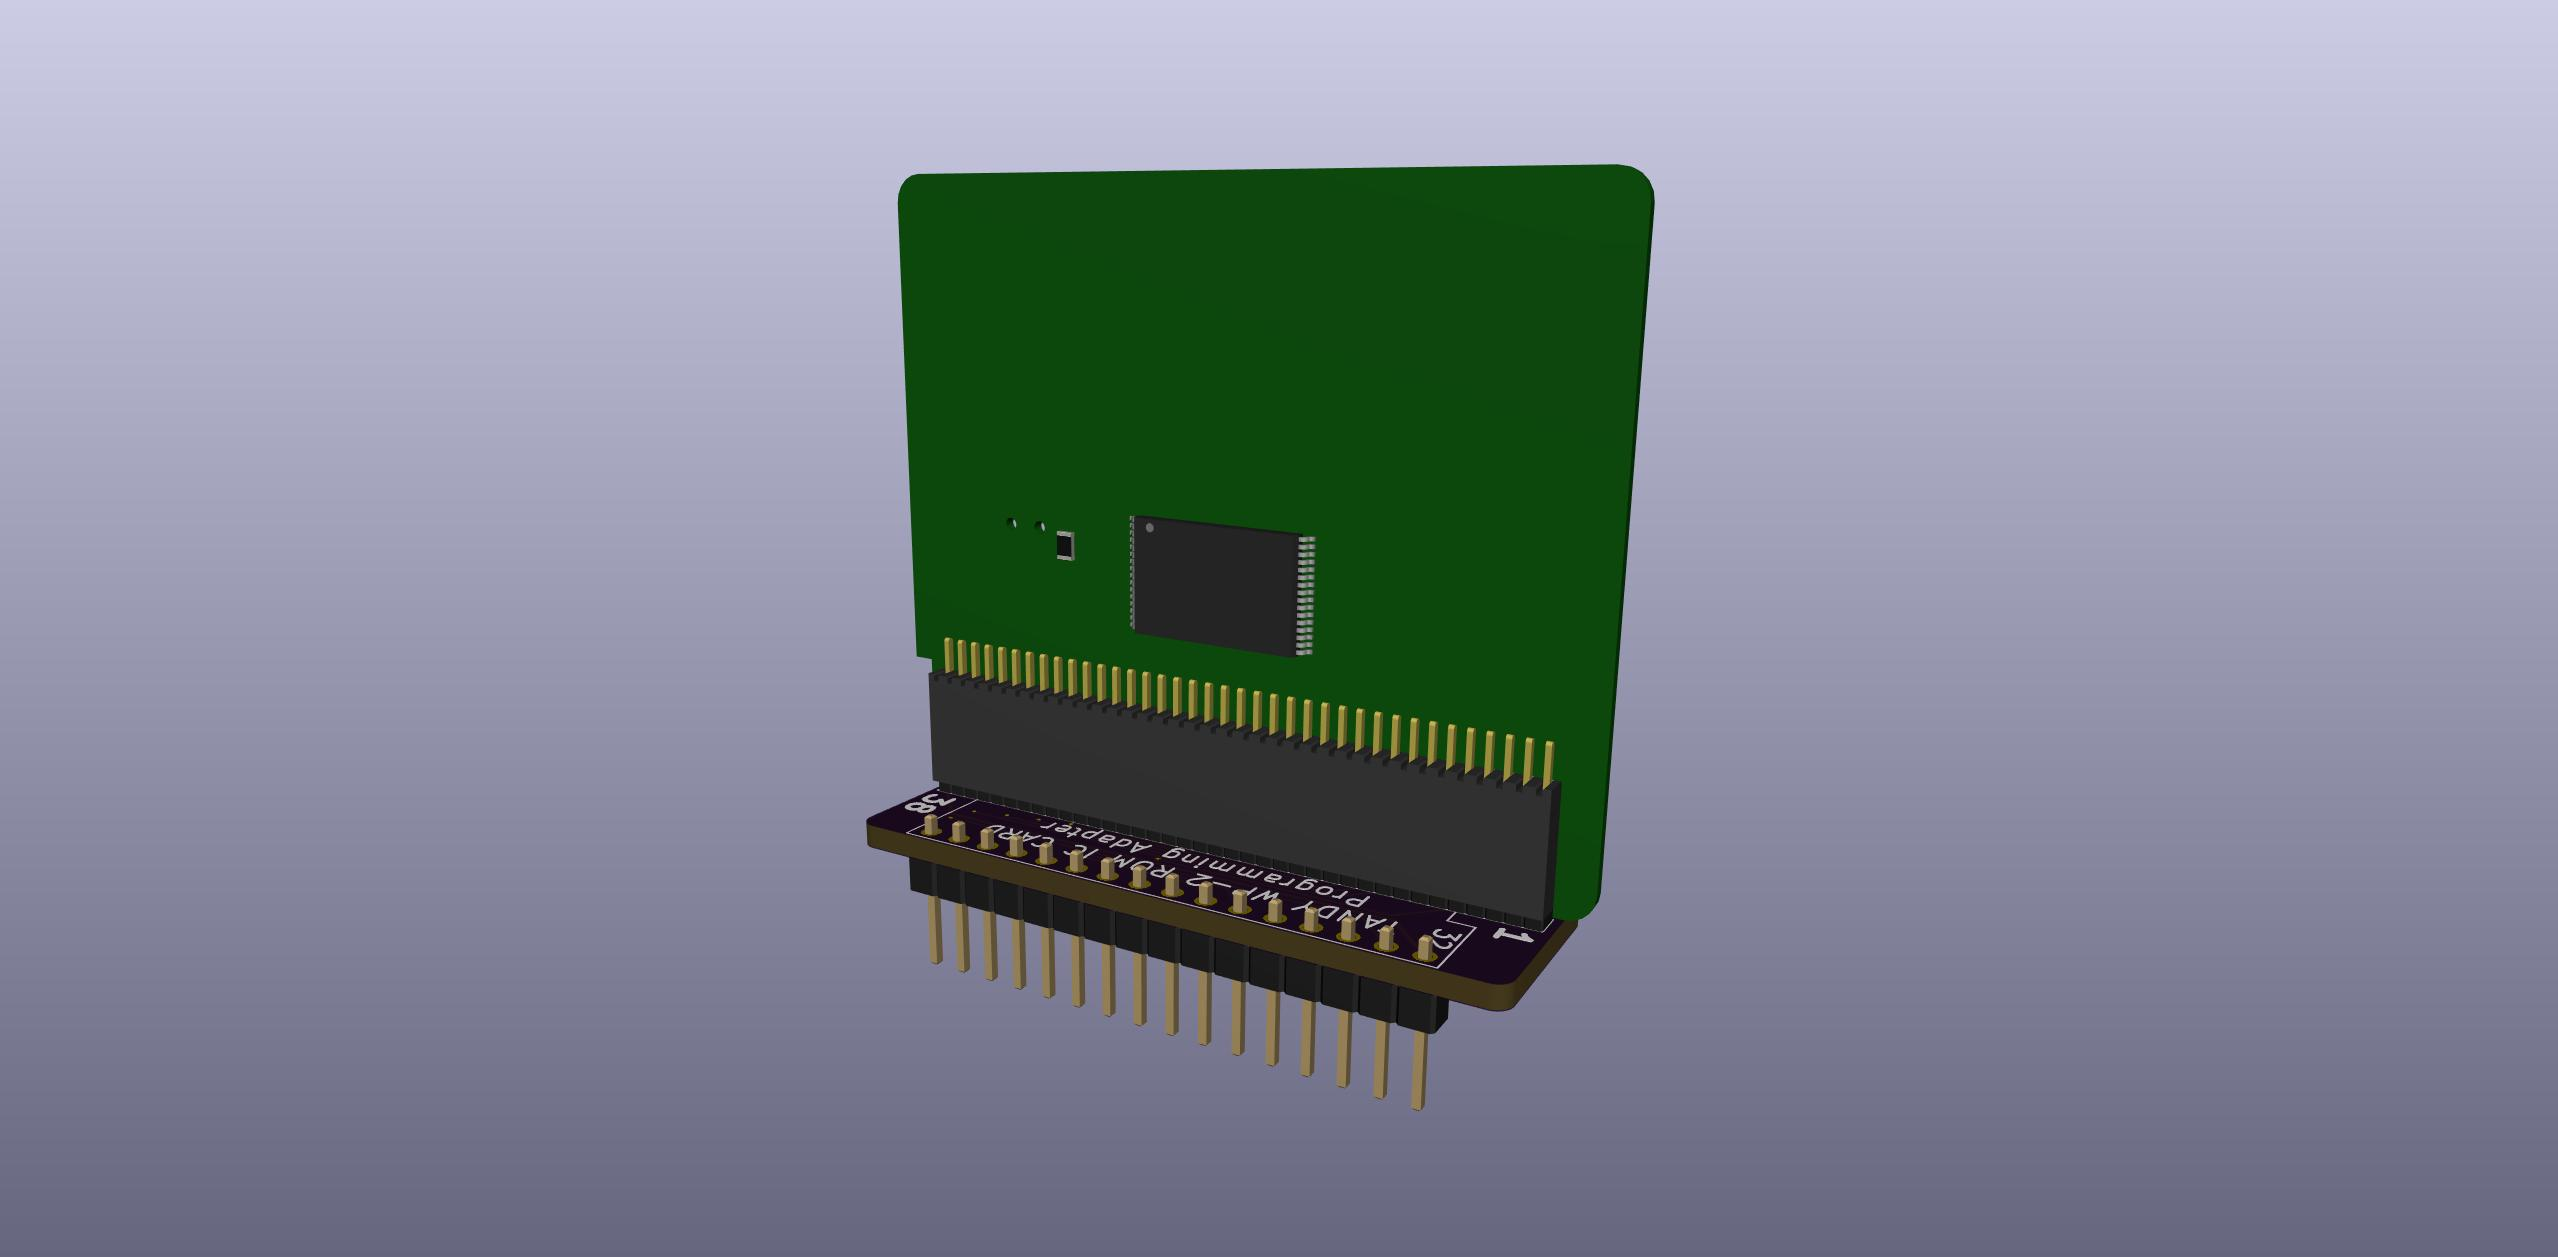
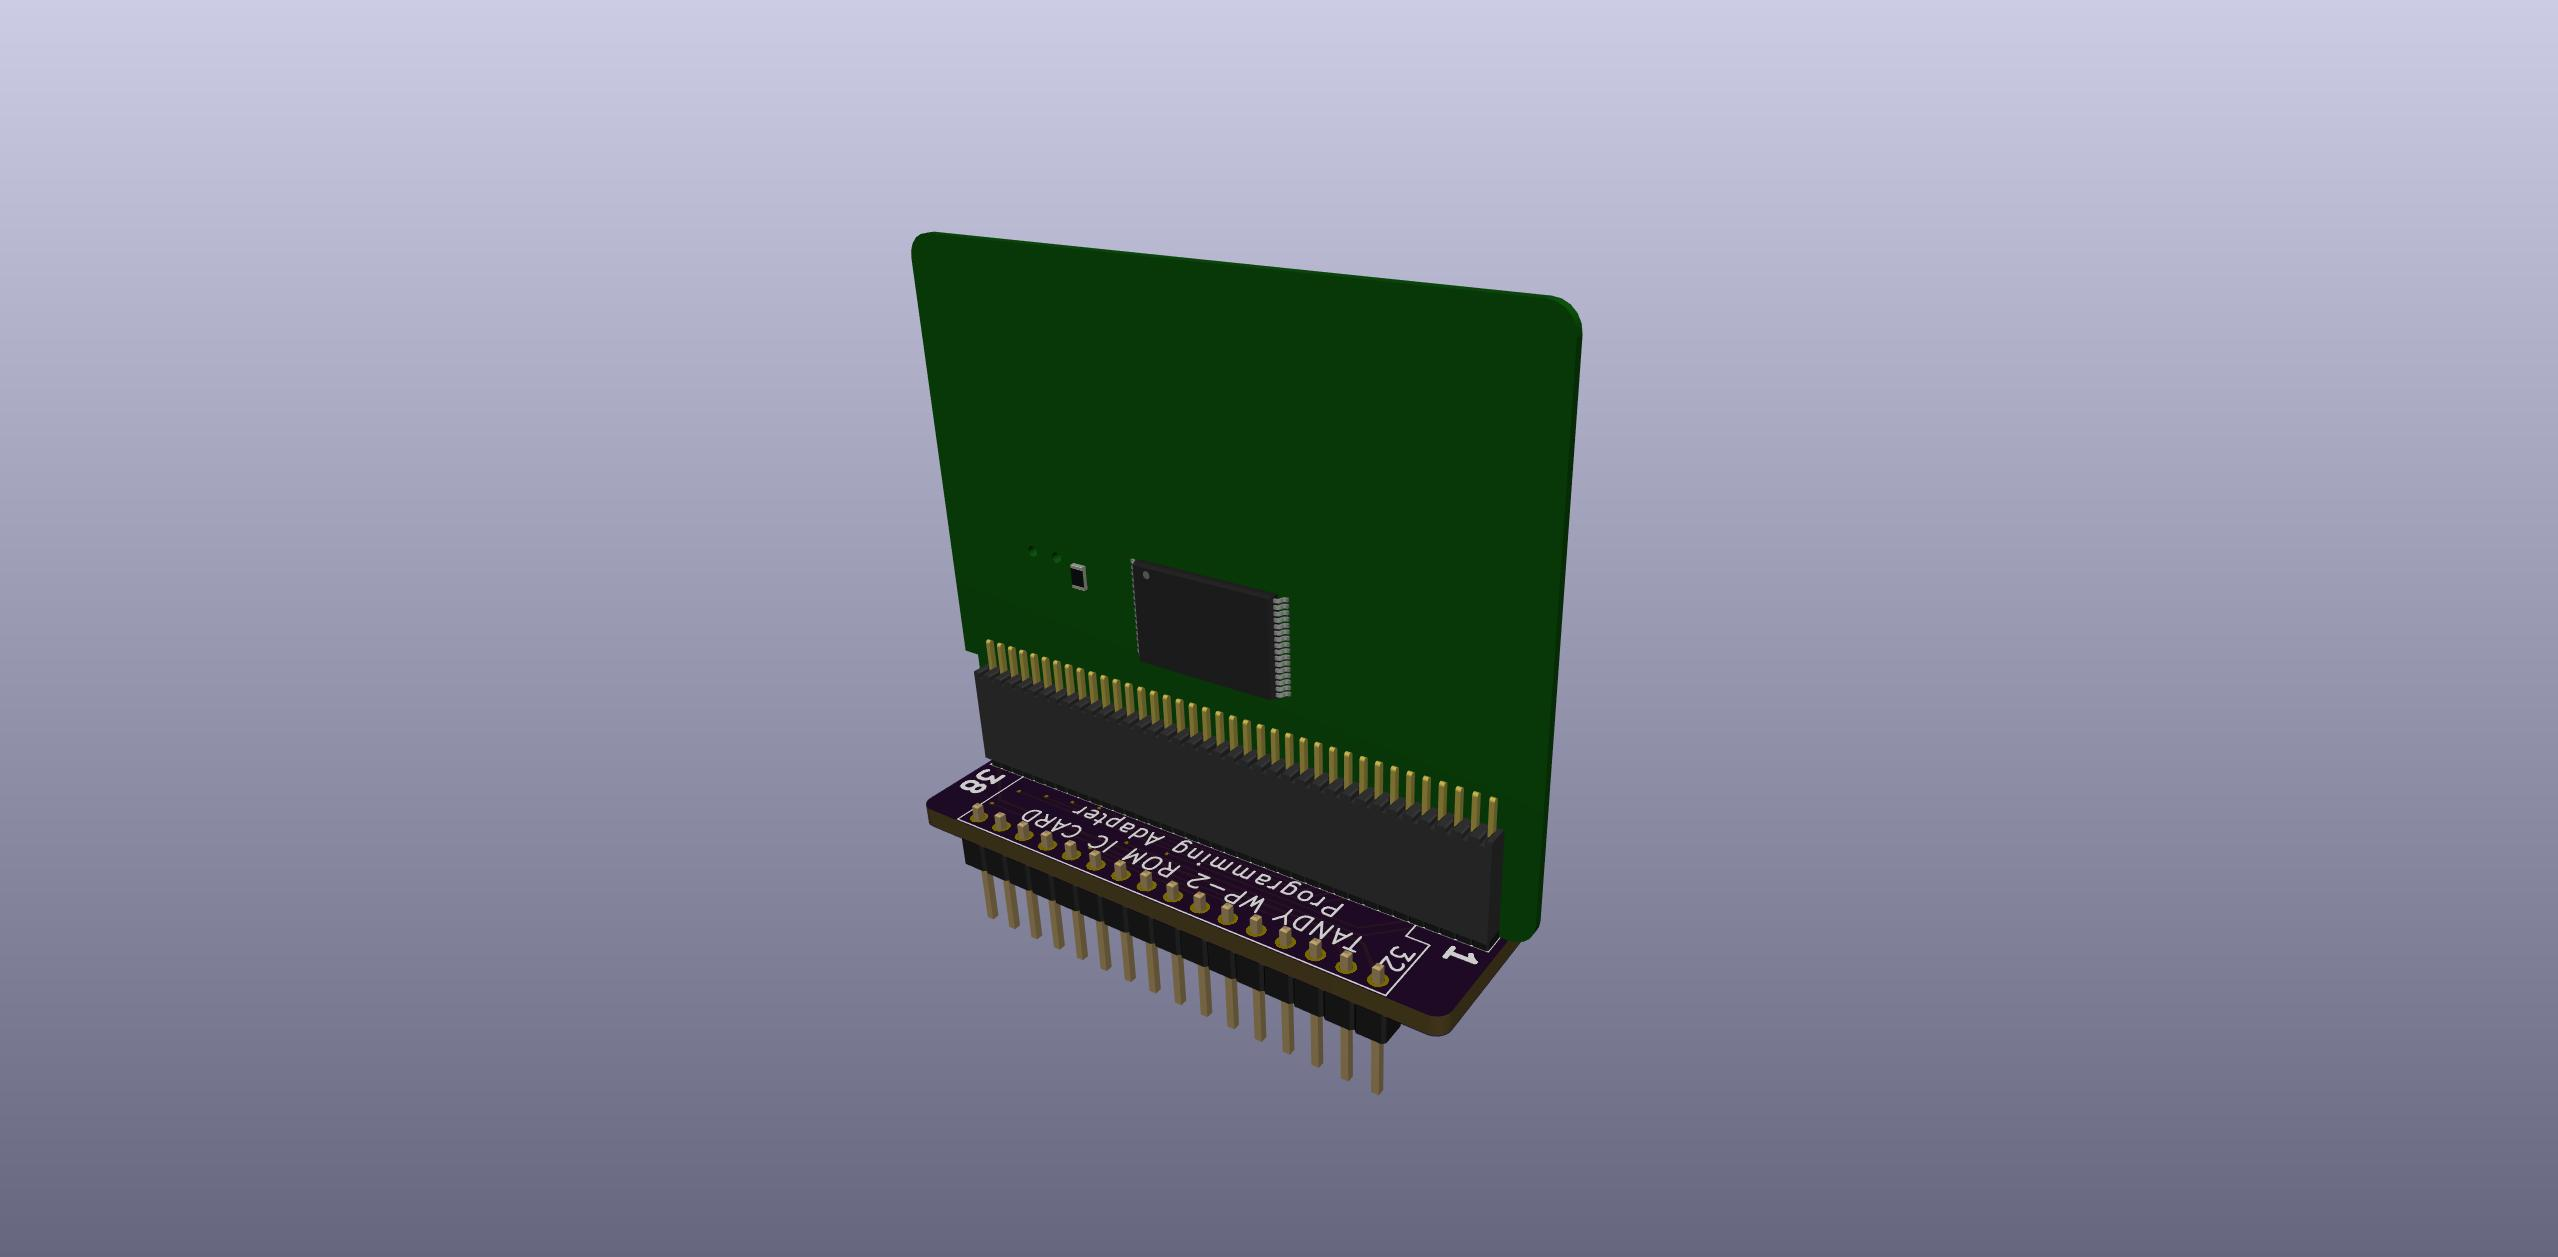
missing /CE1 on programming adapter

Changed region(s): [[0.3397, 0.1241, 0.6486, 0.8687]]

diff --git a/README.md b/README.md
@@ -15,8 +15,8 @@ However the current design uses diodes that are SUPER TINY. They are ridiculous 
 You CAN safely buy the parts and order the pcb for this design as of now, if you are OK with dealing with those diodes. The electrical design is at least verified and working.
 
 <B>The ROM card is NOT verified working yet.</B>  
-The pinout between the chip and the slot looks correct, and the programming adapter looks correct, but my initial test with the programming adapter isn't working. At this point, it might actually just be a bad flash chip or a bad soldering job or something else, and the the pcb design might actually be good, it just isn't *proven* yet.
-
+The ROM card may actually be ok but there was an error in the programming adapter.  
+The current files are updated and the new programming adapter is on the way, but it's not proven yet.  
 
 
 ## RAM CARD  
@@ -54,7 +54,7 @@ Use with a standard eprom programmer such as TL-866, to write to the ROM card.
 ![](WP-2_IC_Card_ROM_programming_adapter_2.jpg)  
 ![](PCB/WP-2_IC_Card_ROM_programming_adapter.svg)  
 
-[ROM Card programming adapter PCB from OSHPark](https://oshpark.com/shared_projects/cvuI02x3)  
+[ROM Card programming adapter PCB from OSHPark](https://oshpark.com/shared_projects/mPv5TGwu)  
 [ROM Card programming adapter PCB from PCBWAY](https://www.pcbway.com/project/shareproject/WP_2_IC_Card_ROM_programming_adapter.html)
 
 [ROM Card programming adapter BOM from DigiKey](https://www.digikey.com/short/zn9rqn)
